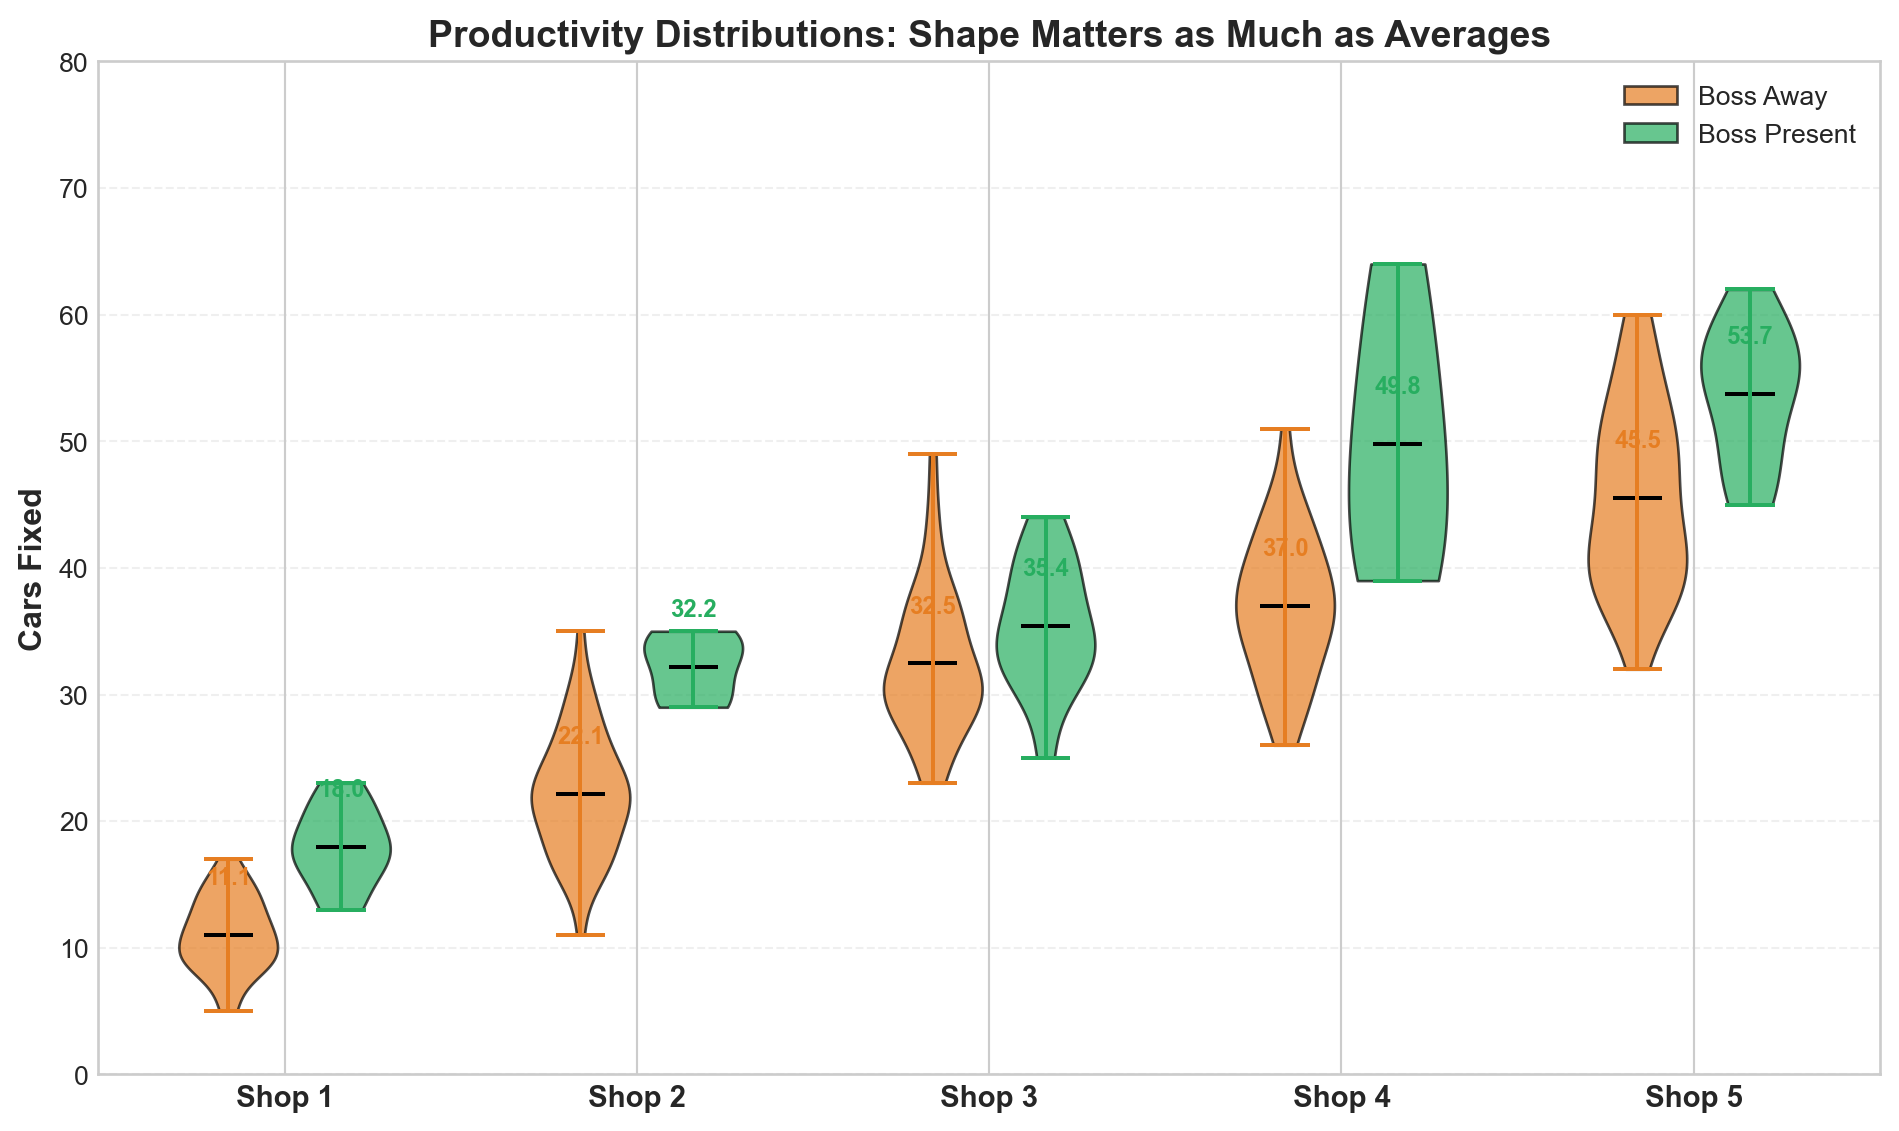
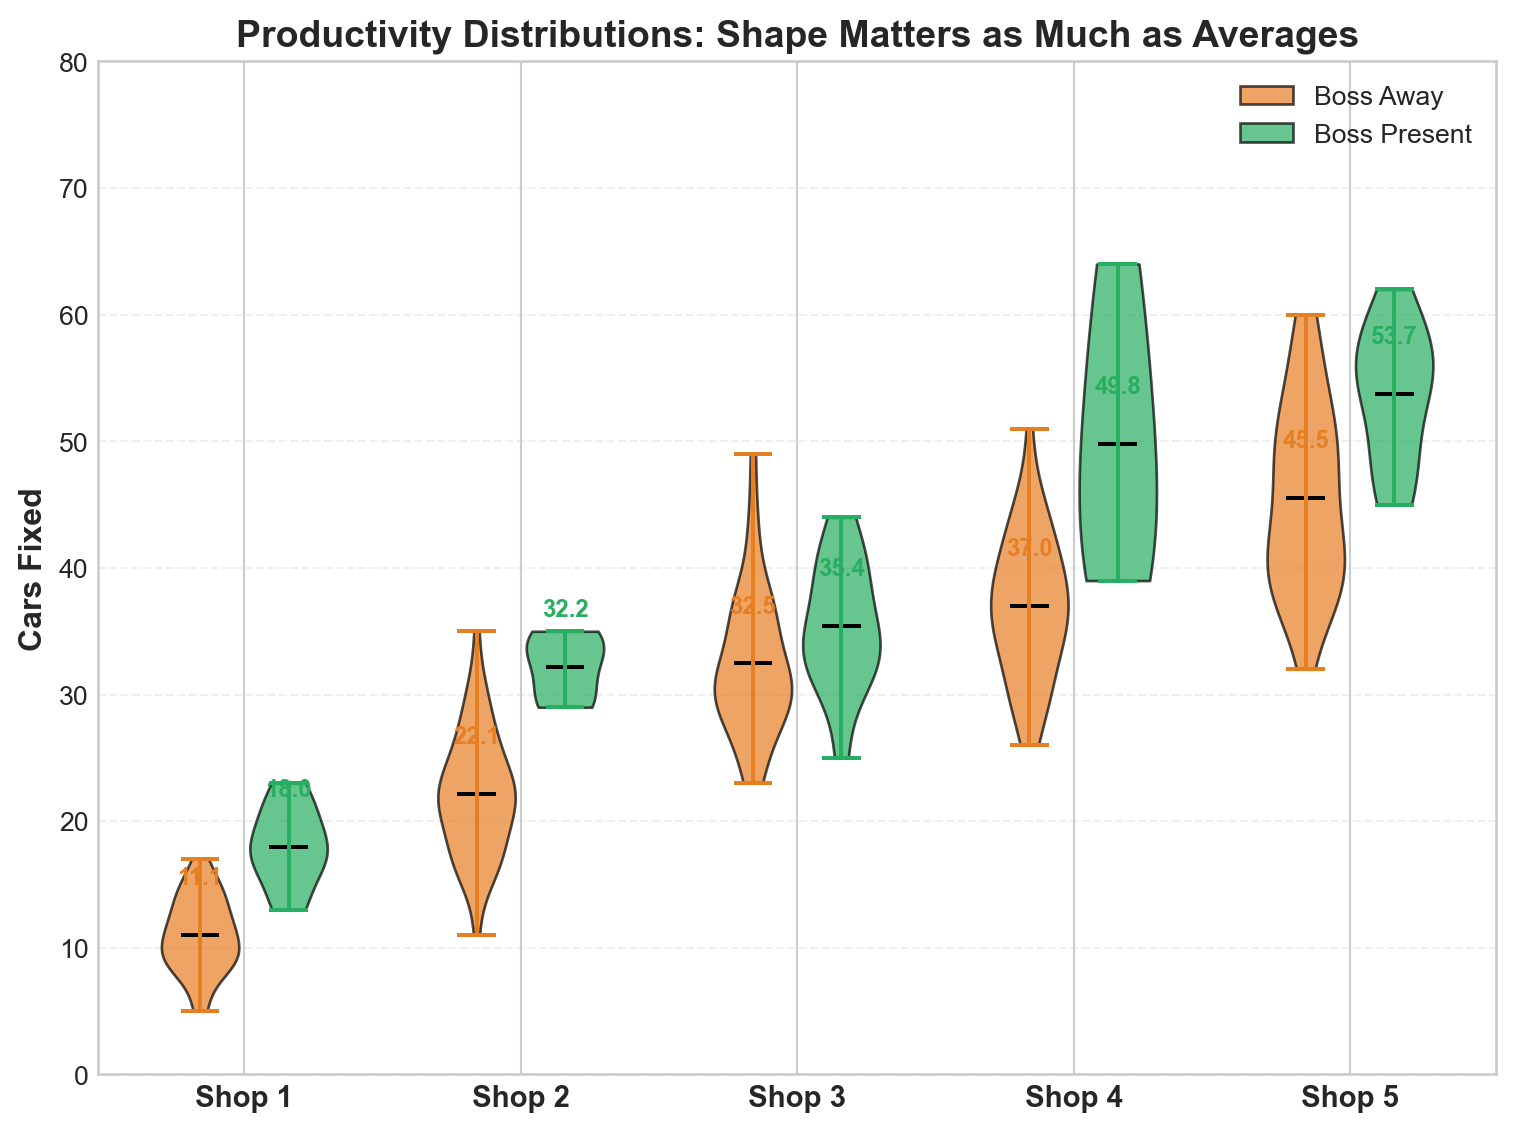
Update index.qmd, index.html and figure outputs

diff --git a/index.html b/index.html
@@ -105,7 +105,7 @@ ul.task-list li input[type="checkbox"] {
 <section id="what-the-data-shows" class="level2">
 <h2 class="anchored" data-anchor-id="what-the-data-shows">What the Data Shows</h2>
 <p>We analyzed 250 days of productivity data across your 5 shops. Here’s every single day plotted—you can see the pattern clearly:</p>
-<div id="e805f8c1" class="cell" data-fig-height="8" data-fig-width="12" data-execution_count="2">
+<div id="36f07e7e" class="cell" data-fig-height="8" data-fig-width="12" data-execution_count="2">
 <div class="cell-output cell-output-display">
 <div class="quarto-figure quarto-figure-center">
 <figure class="figure">
@@ -121,11 +121,11 @@ ul.task-list li input[type="checkbox"] {
 <section id="distribution-comparison-violin-plot" class="level2">
 <h2 class="anchored" data-anchor-id="distribution-comparison-violin-plot">Distribution Comparison: Violin Plot</h2>
 <p>This violin plot reveals the full shape of productivity distributions—not just averages, but how spread out and consistent each shop performs:</p>
-<div id="b91cdec1" class="cell" data-fig-height="6" data-fig-width="10" data-execution_count="3">
+<div id="e44502a3" class="cell" data-fig-height="6" data-fig-width="8" data-execution_count="3">
 <div class="cell-output cell-output-display">
 <div class="quarto-figure quarto-figure-center">
 <figure class="figure">
-<p><img src="index_files/figure-html/cell-4-output-1.png" width="950" height="566" class="figure-img"></p>
+<p><img src="index_files/figure-html/cell-4-output-1.png" width="758" height="566" class="figure-img"></p>
 <figcaption>Violin plot showing productivity distributions by shop and boss presence</figcaption>
 </figure>
 </div>
@@ -137,11 +137,11 @@ ul.task-list li input[type="checkbox"] {
 <section id="split-violin-plot-direct-comparison-by-shop" class="level2">
 <h2 class="anchored" data-anchor-id="split-violin-plot-direct-comparison-by-shop">Split Violin Plot: Direct Comparison by Shop</h2>
 <p>This split violin plot shows the productivity distribution for each shop with boss presence on opposite sides—making it easy to compare the “shape” of performance directly:</p>
-<div id="79d01723" class="cell" data-fig-height="6" data-fig-width="12" data-execution_count="4">
+<div id="ce65175b" class="cell" data-fig-height="6" data-fig-width="8" data-execution_count="4">
 <div class="cell-output cell-output-display">
 <div class="quarto-figure quarto-figure-center">
 <figure class="figure">
-<p><img src="index_files/figure-html/cell-5-output-1.png" width="1142" height="566" class="figure-img"></p>
+<p><img src="index_files/figure-html/cell-5-output-1.png" width="758" height="566" class="figure-img"></p>
 <figcaption>Split violin plot: Each shop’s productivity distribution split by boss presence (orange = away, green = present)</figcaption>
 </figure>
 </div>
@@ -153,7 +153,7 @@ ul.task-list li input[type="checkbox"] {
 <section id="d-view-shop-performance-landscape" class="level2">
 <h2 class="anchored" data-anchor-id="d-view-shop-performance-landscape">3D View: Shop Performance Landscape</h2>
 <p>Here’s an interactive 3D perspective showing all three dimensions at once—Shop ID, your presence status, and cars fixed:</p>
-<div id="7e2a4669" class="cell" data-fig-height="8" data-fig-width="10" data-execution_count="5">
+<div id="4c04d5a2" class="cell" data-fig-height="8" data-fig-width="10" data-execution_count="5">
 <div class="cell-output cell-output-display">
 <div class="quarto-figure quarto-figure-center">
 <figure class="figure">
@@ -169,7 +169,7 @@ ul.task-list li input[type="checkbox"] {
 <section id="the-boss-boost-effect" class="level2">
 <h2 class="anchored" data-anchor-id="the-boss-boost-effect">The “Boss Boost” Effect</h2>
 <p>Here’s the real question: <strong>How many extra cars get fixed when you’re at each shop?</strong></p>
-<div id="1134d972" class="cell" data-fig-height="5" data-fig-width="9" data-execution_count="6">
+<div id="7fab876b" class="cell" data-fig-height="5" data-fig-width="9" data-execution_count="6">
 <div class="cell-output cell-output-display">
 <div class="quarto-figure quarto-figure-center">
 <figure class="figure">
@@ -226,7 +226,7 @@ ul.task-list li input[type="checkbox"] {
 <section id="how-confident-can-you-be" class="level2">
 <h2 class="anchored" data-anchor-id="how-confident-can-you-be">How Confident Can You Be?</h2>
 <p><strong>The honest truth:</strong> We only have 250 days of data, and you weren’t at every shop equally. Here’s what that means:</p>
-<div id="8a8970db" class="cell" data-fig-height="3" data-fig-width="6" data-execution_count="7">
+<div id="755d826b" class="cell" data-fig-height="3" data-fig-width="6" data-execution_count="7">
 <div class="cell-output cell-output-display">
 <div class="quarto-figure quarto-figure-center">
 <figure class="figure">
@@ -253,7 +253,7 @@ ul.task-list li input[type="checkbox"] {
 <section id="the-money-question" class="level2">
 <h2 class="anchored" data-anchor-id="the-money-question">The Money Question 💰</h2>
 <p>Let’s say each car fixed earns you <strong>$200 in profit</strong>. Here’s what different scheduling strategies could mean for your wallet:</p>
-<div id="7a0db1a9" class="cell" data-fig-height="7" data-fig-width="9" data-execution_count="8">
+<div id="1d68d64a" class="cell" data-fig-height="7" data-fig-width="9" data-execution_count="8">
 <div class="cell-output cell-output-display">
 <div class="quarto-figure quarto-figure-center">
 <figure class="figure">
@@ -266,7 +266,7 @@ ul.task-list li input[type="checkbox"] {
 <section id="long-term-profit-projection" class="level3">
 <h3 class="anchored" data-anchor-id="long-term-profit-projection">Long-Term Profit Projection 📈</h3>
 <p>What do these strategies look like over a full year? Here’s how your profits compound:</p>
-<div id="7972108f" class="cell" data-fig-height="5" data-fig-width="7" data-execution_count="9">
+<div id="9b007824" class="cell" data-fig-height="5" data-fig-width="7" data-execution_count="9">
 <div class="cell-output cell-output-display">
 <div class="quarto-figure quarto-figure-center">
 <figure class="figure">
@@ -390,7 +390,7 @@ ul.task-list li input[type="checkbox"] {
 </section>
 <section id="one-final-chart-boss-presence-delta-by-shop" class="level3">
 <h3 class="anchored" data-anchor-id="one-final-chart-boss-presence-delta-by-shop">One Final Chart: Boss Presence Delta by Shop</h3>
-<div id="69a70212" class="cell" data-fig-height="8" data-fig-width="12" data-execution_count="10">
+<div id="26fe1cbc" class="cell" data-fig-height="8" data-fig-width="12" data-execution_count="10">
 <div class="cell-output cell-output-display">
 <div class="quarto-figure quarto-figure-center">
 <figure class="figure">
